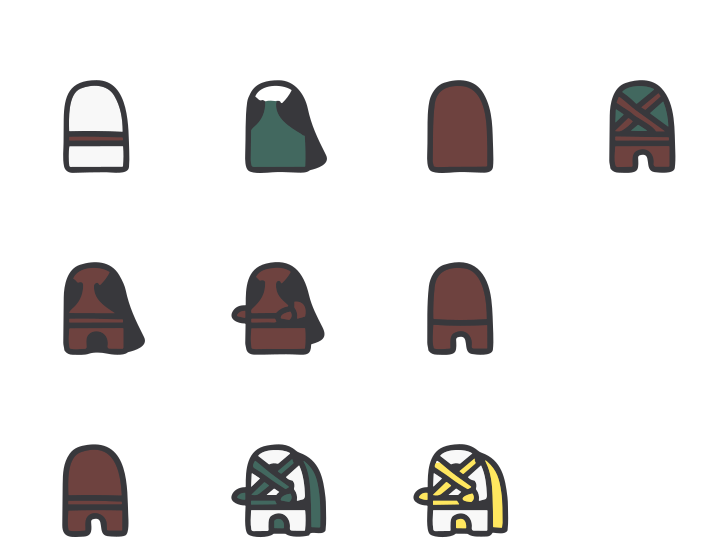
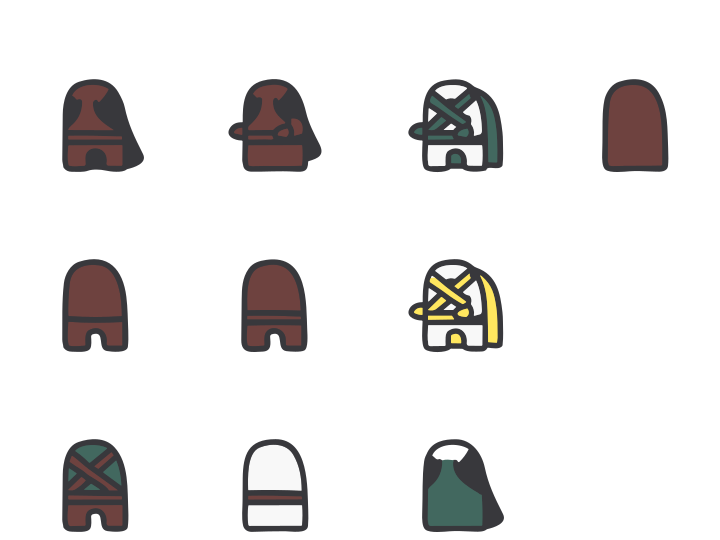
fix spritesheets

diff --git a/apps/potato-web/src/game/scenes/battle/AddSpriteFromSpritesheet.ts b/apps/potato-web/src/game/scenes/battle/AddSpriteFromSpritesheet.ts
@@ -1,23 +1,23 @@
 export function addUnitSprite(scene: Phaser.Scene, x: number, y: number, keyword: string) {
   const sprite = scene.add.sprite(x, y, "unit");
 
-  if (keyword === "bodyBot") sprite.setFrame(0);
-  else if (keyword === "bodyLine") sprite.setFrame(1);
-  else if (keyword === "bodyTopSkin") sprite.setFrame(2);
-  else if (keyword === "leftArmLine") sprite.setFrame(3);
-  else if (keyword === "headLineElf") sprite.setFrame(4);
-  else if (keyword === "headLineHuman") sprite.setFrame(5);
-  else if (keyword === "headLineOrc") sprite.setFrame(6);
-  else if (keyword === "headLineDwarf") sprite.setFrame(6);
-  else if (keyword === "leftArmSkin") sprite.setFrame(7);
-  else if (keyword === "headSkinElf") sprite.setFrame(8);
-  else if (keyword === "headSkinHuman") sprite.setFrame(9);
-  else if (keyword === "headSkinOrc") sprite.setFrame(10);
-  else if (keyword === "headSkinDwarf") sprite.setFrame(10);
-  else if (keyword === "neckLine") sprite.setFrame(11);
-  else if (keyword === "neckSkin") sprite.setFrame(12);
-  else if (keyword === "rightArmLine") sprite.setFrame(13);
-  else if (keyword === "rightArmSkin") sprite.setFrame(14);
+  if (keyword === "headLineElf") sprite.setFrame(0);
+  else if (keyword === "headLineHuman") sprite.setFrame(1);
+  else if (keyword === "headSkinHuman") sprite.setFrame(2);
+  else if (keyword === "neckSkin") sprite.setFrame(3);
+  else if (keyword === "headLineOrc") sprite.setFrame(4);
+  else if (keyword === "headLineDwarf") sprite.setFrame(4);
+  else if (keyword === "headSkinElf") sprite.setFrame(5);
+  else if (keyword === "headSkinOrc") sprite.setFrame(6);
+  else if (keyword === "headSkinDwarf") sprite.setFrame(6);
+  else if (keyword === "rightArmLine") sprite.setFrame(7);
+  else if (keyword === "leftArmLine") sprite.setFrame(8);
+  else if (keyword === "leftArmSkin") sprite.setFrame(9);
+  else if (keyword === "neckLine") sprite.setFrame(10);
+  else if (keyword === "rightArmSkin") sprite.setFrame(11);
+  else if (keyword === "bodyBot") sprite.setFrame(12);
+  else if (keyword === "bodyLine") sprite.setFrame(13);
+  else if (keyword === "bodyTopSkin") sprite.setFrame(14);
   else throw Error(`addUnitSprite: ${keyword} not found`);
 
   return sprite;
@@ -26,14 +26,14 @@ export function addUnitSprite(scene: Phaser.Scene, x: number, y: number, keyword
 export function addEquipBackSprite(scene: Phaser.Scene, x: number, y: number, keyword: string) {
   const sprite = scene.add.sprite(x, y, "equip_back");
 
-  if (keyword === "backpack") sprite.setFrame(0);
-  else if (keyword === "basket") sprite.setFrame(1);
-  else if (keyword === "capeBlack") sprite.setFrame(2);
-  else if (keyword === "capeGreen") sprite.setFrame(3);
-  else if (keyword === "capeYellow") sprite.setFrame(4);
-  else if (keyword === "corn") sprite.setFrame(5);
-  else if (keyword === "goldBasket") sprite.setFrame(6);
-  else if (keyword === "quiver") sprite.setFrame(6);
+  if (keyword === "capeGreen") sprite.setFrame(0);
+  else if (keyword === "capeYellow") sprite.setFrame(1);
+  else if (keyword === "quiver") sprite.setFrame(2);
+  else if (keyword === "corn") sprite.setFrame(3);
+  else if (keyword === "goldBasket") sprite.setFrame(4);
+  else if (keyword === "backpack") sprite.setFrame(5);
+  else if (keyword === "basket") sprite.setFrame(6);
+  else if (keyword === "capeBlack") sprite.setFrame(6);
   else throw Error(`addEquipBackSprite: ${keyword} not found`);
 
   return sprite;
@@ -42,16 +42,16 @@ export function addEquipBackSprite(scene: Phaser.Scene, x: number, y: number, ke
 export function addEquipChestSprite(scene: Phaser.Scene, x: number, y: number, keyword: string) {
   const sprite = scene.add.sprite(x, y, "equip_chest");
 
-  if (keyword === "clothMantle") sprite.setFrame(0);
-  else if (keyword === "clothRobe") sprite.setFrame(1);
-  else if (keyword === "leatherMantle") sprite.setFrame(2);
-  else if (keyword === "reinforcedShirt") sprite.setFrame(3);
-  else if (keyword === "leatherRobe") sprite.setFrame(4);
-  else if (keyword === "leatherRobe2") sprite.setFrame(5);
-  else if (keyword === "leatherShirt") sprite.setFrame(6);
-  else if (keyword === "leatherShirt2") sprite.setFrame(8);
-  else if (keyword === "plateMail") sprite.setFrame(9);
-  else if (keyword === "plateMail2") sprite.setFrame(10);
+  if (keyword === "leatherRobe") sprite.setFrame(0);
+  else if (keyword === "leatherRobe2") sprite.setFrame(1);
+  else if (keyword === "plateMail") sprite.setFrame(2);
+  else if (keyword === "leatherMantle") sprite.setFrame(3);
+  else if (keyword === "leatherShirt") sprite.setFrame(4);
+  else if (keyword === "leatherShirt2") sprite.setFrame(5);
+  else if (keyword === "plateMail2") sprite.setFrame(6);
+  else if (keyword === "reinforcedShirt") sprite.setFrame(8);
+  else if (keyword === "clothMantle") sprite.setFrame(9);
+  else if (keyword === "clothRobe") sprite.setFrame(10);
   else throw Error(`addEquipChestSprite: ${keyword} not found`);
 
   return sprite;
@@ -60,15 +60,15 @@ export function addEquipChestSprite(scene: Phaser.Scene, x: number, y: number, k
 export function addEquipHelmetSprite(scene: Phaser.Scene, x: number, y: number, keyword: string) {
   const sprite = scene.add.sprite(x, y, "equip_helmet");
 
-  if (keyword === "cap") sprite.setFrame(0);
-  else if (keyword === "crown") sprite.setFrame(1);
-  else if (keyword === "leatherHat") sprite.setFrame(2);
-  else if (keyword === "hair") sprite.setFrame(3);
-  else if (keyword === "clothHat") sprite.setFrame(4);
-  else if (keyword === "plagueMask") sprite.setFrame(5);
-  else if (keyword === "plateHelmet") sprite.setFrame(6);
-  else if (keyword === "plateHelmet2") sprite.setFrame(7);
-  else if (keyword === "witchHat") sprite.setFrame(8);
+  if (keyword === "leatherHat") sprite.setFrame(0);
+  else if (keyword === "hair") sprite.setFrame(1);
+  else if (keyword === "plateHelmet") sprite.setFrame(2);
+  else if (keyword === "clothHat") sprite.setFrame(3);
+  else if (keyword === "plagueMask") sprite.setFrame(4);
+  else if (keyword === "plateHelmet2") sprite.setFrame(5);
+  else if (keyword === "witchHat") sprite.setFrame(6);
+  else if (keyword === "cap") sprite.setFrame(7);
+  else if (keyword === "crown") sprite.setFrame(8);
   else throw Error(`addEquipHelmetSprite: ${keyword} not found`);
 
   return sprite;
@@ -77,13 +77,13 @@ export function addEquipHelmetSprite(scene: Phaser.Scene, x: number, y: number, 
 export function addEquipOffhandSprite(scene: Phaser.Scene, x: number, y: number, keyword: string) {
   const sprite = scene.add.sprite(x, y, "equip_offhand");
 
-  if (keyword === "arrow") sprite.setFrame(0);
-  else if (keyword === "book") sprite.setFrame(1);
-  else if (keyword === "ironShield") sprite.setFrame(2);
-  else if (keyword === "dagger") sprite.setFrame(3);
-  else if (keyword === "herbs") sprite.setFrame(4);
-  else if (keyword === "map") sprite.setFrame(5);
-  else if (keyword === "woodenShield") sprite.setFrame(6);
+  if (keyword === "herbs") sprite.setFrame(0);
+  else if (keyword === "ironShield") sprite.setFrame(1);
+  else if (keyword === "arrow") sprite.setFrame(2);
+  else if (keyword === "map") sprite.setFrame(3);
+  else if (keyword === "woodenShield") sprite.setFrame(4);
+  else if (keyword === "book") sprite.setFrame(5);
+  else if (keyword === "dagger") sprite.setFrame(6);
   else throw Error(`addEquipOffhandSprite: ${keyword} not found`);
 
   return sprite;
@@ -92,25 +92,25 @@ export function addEquipOffhandSprite(scene: Phaser.Scene, x: number, y: number,
 export function addEquipWeaponSprite(scene: Phaser.Scene, x: number, y: number, keyword: string) {
   const sprite = scene.add.sprite(x, y, "equip_weapon");
 
-  if (keyword === "axe") sprite.setFrame(0);
-  else if (keyword === "bow") sprite.setFrame(1);
-  else if (keyword === "club") sprite.setFrame(2);
-  else if (keyword === "dagger") sprite.setFrame(3);
-  else if (keyword === "trident") sprite.setFrame(4);
-  else if (keyword === "hammer") sprite.setFrame(5);
-  else if (keyword === "mageStaff") sprite.setFrame(6);
-  else if (keyword === "pickaxe") sprite.setFrame(7);
-  else if (keyword === "pike") sprite.setFrame(8);
-  else if (keyword === "pitchfork") sprite.setFrame(10);
-  else if (keyword === "plagueStaff") sprite.setFrame(11);
-  else if (keyword === "pouch") sprite.setFrame(12);
-  else if (keyword === "scepter") sprite.setFrame(13);
-  else if (keyword === "wand") sprite.setFrame(13);
-  else if (keyword === "shovel") sprite.setFrame(15);
-  else if (keyword === "sickle") sprite.setFrame(16);
-  else if (keyword === "staff") sprite.setFrame(17);
-  else if (keyword === "sword") sprite.setFrame(18);
-  else if (keyword === "greatsword") sprite.setFrame(18);
+  if (keyword === "mageStaff") sprite.setFrame(0);
+  else if (keyword === "pickaxe") sprite.setFrame(1);
+  else if (keyword === "plagueStaff") sprite.setFrame(2);
+  else if (keyword === "staff") sprite.setFrame(3);
+  else if (keyword === "hammer") sprite.setFrame(4);
+  else if (keyword === "pike") sprite.setFrame(5);
+  else if (keyword === "trident") sprite.setFrame(6);
+  else if (keyword === "pouch") sprite.setFrame(7);
+  else if (keyword === "sword") sprite.setFrame(8);
+  else if (keyword === "greatsword") sprite.setFrame(8);
+  else if (keyword === "scepter") sprite.setFrame(10);
+  else if (keyword === "wand") sprite.setFrame(10);
+  else if (keyword === "shovel") sprite.setFrame(11);
+  else if (keyword === "sickle") sprite.setFrame(12);
+  else if (keyword === "pitchfork") sprite.setFrame(13);
+  else if (keyword === "axe") sprite.setFrame(15);
+  else if (keyword === "bow") sprite.setFrame(16);
+  else if (keyword === "dagger") sprite.setFrame(17);
+  else if (keyword === "club") sprite.setFrame(18);
   else throw Error(`addEquipWeaponSprite: ${keyword} not found`);
 
   return sprite;

diff --git a/apps/potato-web/src/game/scenes/battle/PreloadImages.ts b/apps/potato-web/src/game/scenes/battle/PreloadImages.ts
@@ -22,6 +22,12 @@ export function loadCurrentAssets(scene: Phaser.Scene) {
 }
 
 export function loadAssets(scene: Phaser.Scene) {
+  // Unit
+  scene.load.spritesheet("unit", "assets/unit.png", {
+    frameWidth: 180,
+    frameHeight: 180,
+  });
+
   // Equipment Back
   scene.load.spritesheet("equip_back", "assets/equipment/back.png", {
     frameWidth: 180,
@@ -48,12 +54,6 @@ export function loadAssets(scene: Phaser.Scene) {
 
   // Equipment Weapon
   scene.load.spritesheet("equip_weapon", "assets/equipment/weapon.png", {
-    frameWidth: 180,
-    frameHeight: 180,
-  });
-
-  // Unit
-  scene.load.spritesheet("unit", "assets/unit.png", {
     frameWidth: 180,
     frameHeight: 180,
   });
